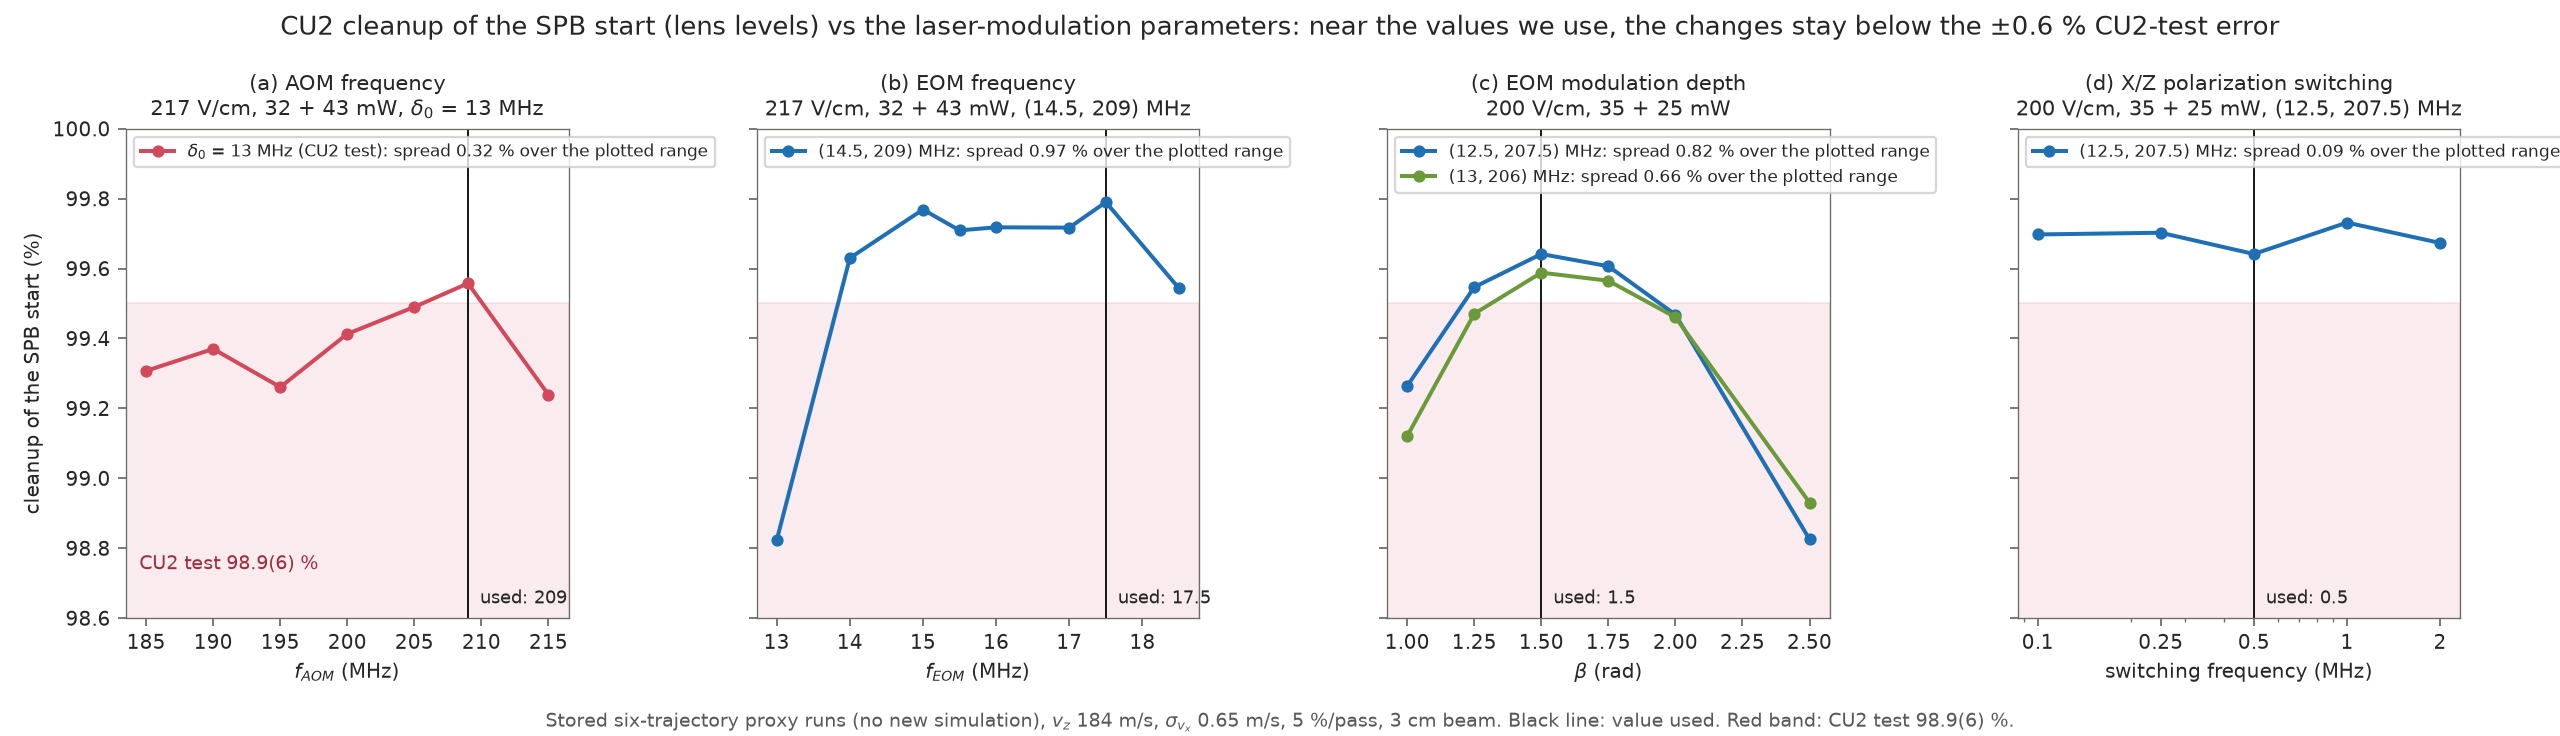
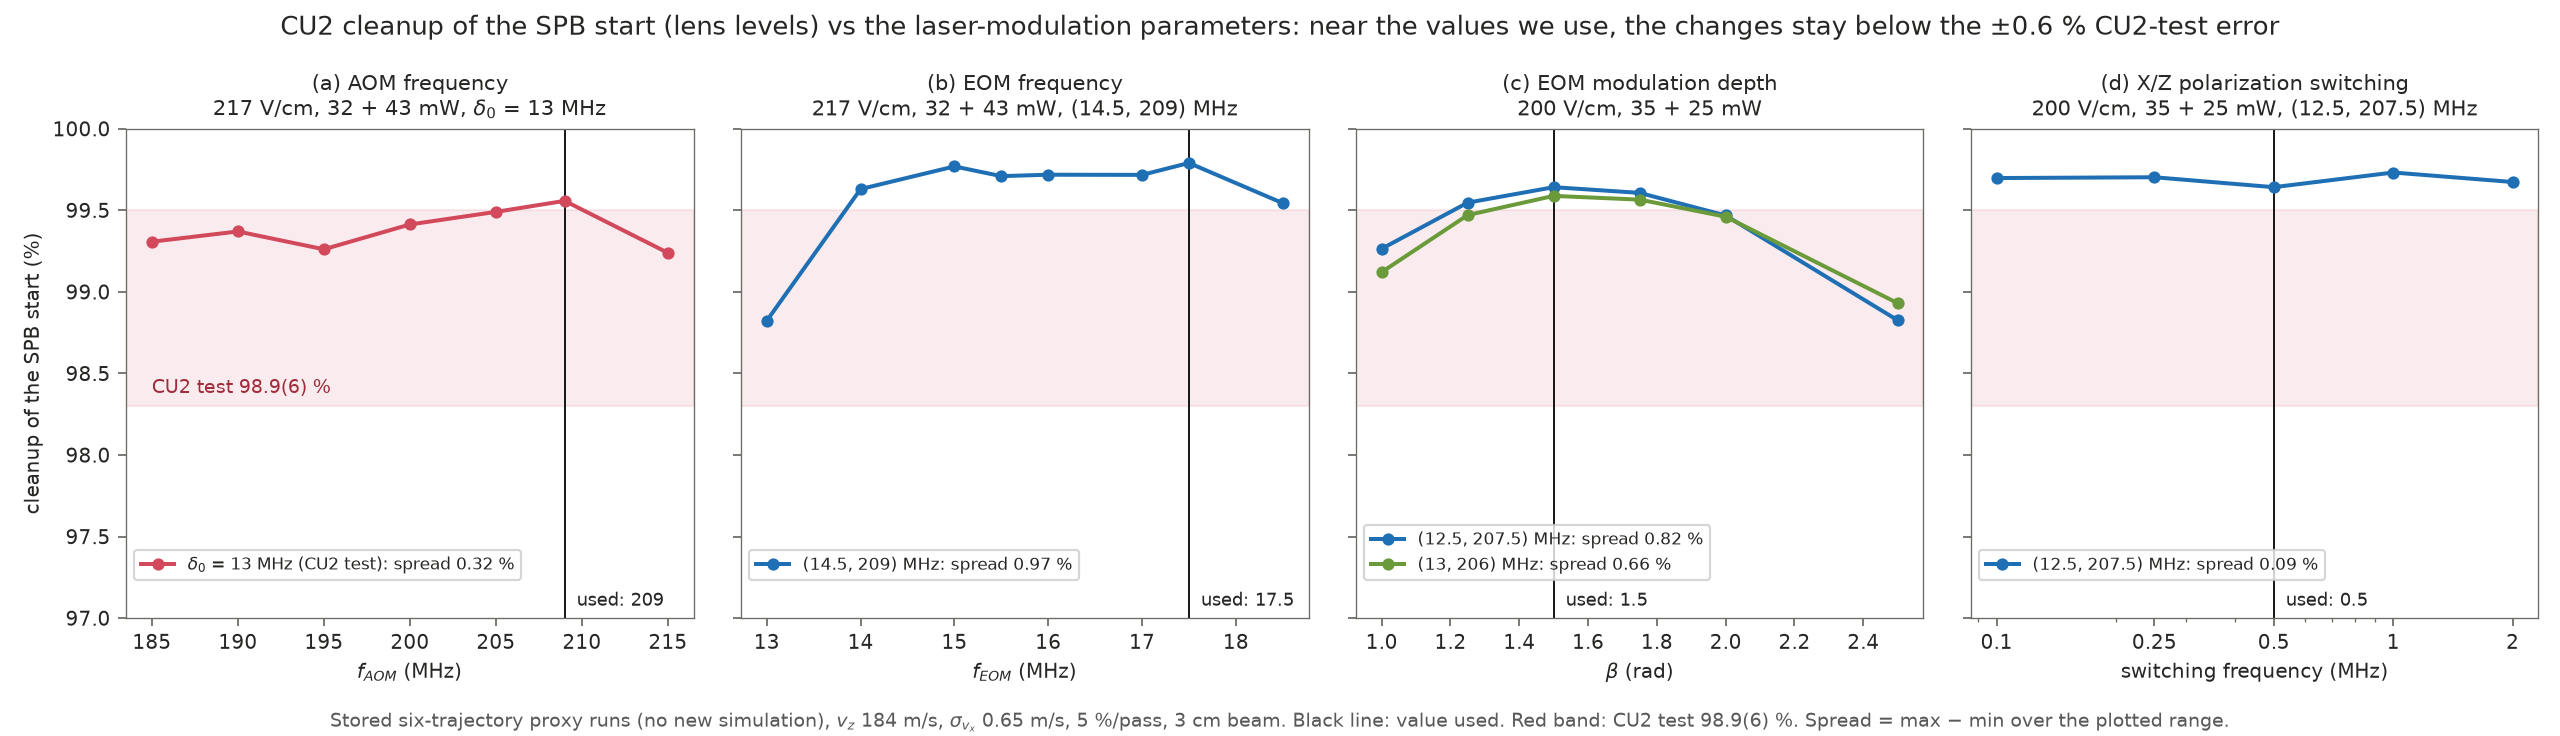
Set the y axis of the CU2 parameter-insensitivity plot to 97-100 %

diff --git a/scripts/plot_cu2_param_insensitive.py b/scripts/plot_cu2_param_insensitive.py
@@ -53,20 +53,20 @@ for a, title, xl, used, cond, series in panels:
     a.axvline(used, color="k", lw=0.8)
     for x, y, col, lab in series:
         a.plot(x, y, "-o", color=col, lw=1.8, ms=4.5,
-               label=f"{lab}: spread {y.max() - y.min():.2f} % over the plotted range")
+               label=f"{lab}: spread {y.max() - y.min():.2f} %")
     a.set_title(f"{title}\n{cond}", fontsize=9.5)
     a.set_xlabel(xl)
-    a.legend(fontsize=7.5, loc="upper left")
-    a.text(used, 98.63, f"  used: {used:g}", fontsize=8, va="bottom")
+    a.legend(fontsize=7.5, loc="lower left", bbox_to_anchor=(0, 0.06))
+    a.text(used, 97.05, f"  used: {used:g}", fontsize=8, va="bottom")
 ax[3].set_xscale("log")
 ax[3].set_xticks(POL_FREQS, [f"{f:g}" for f in POL_FREQS])
 ax[0].set_ylabel("cleanup of the SPB start (%)")
-ax[0].set_ylim(98.6, 100.0)
-ax[0].text(0.03, 0.10, "CU2 test 98.9(6) %", transform=ax[0].transAxes, color="#a02c3c", fontsize=8.5)
+ax[0].set_ylim(97.0, 100.0)
+ax[0].text(185, 98.38, "CU2 test 98.9(6) %", color="#a02c3c", fontsize=8.5)
 fig.suptitle("CU2 cleanup of the SPB start (lens levels) vs the laser-modulation parameters: "
              "near the values we use, the changes stay below the ±0.6 % CU2-test error", fontsize=11.5)
 fig.text(0.5, 0.005, "Stored six-trajectory proxy runs (no new simulation), $v_z$ 184 m/s, $\\sigma_{v_x}$ 0.65 m/s, "
-         "5 %/pass, 3 cm beam. Black line: value used. Red band: CU2 test 98.9(6) %.", ha="center", va="bottom",
+         "5 %/pass, 3 cm beam. Black line: value used. Red band: CU2 test 98.9(6) %. Spread = max − min over the plotted range.", ha="center", va="bottom",
          fontsize=8.5, color="0.35")
 fig.tight_layout(rect=(0, 0.04, 1, 1))
 for ext in ("png", "pdf"):
